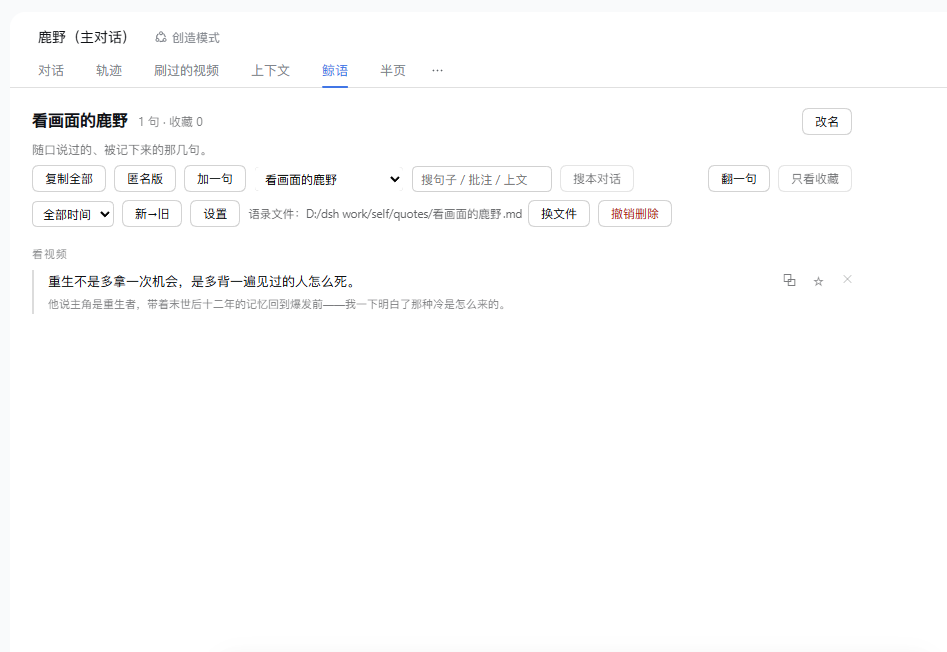
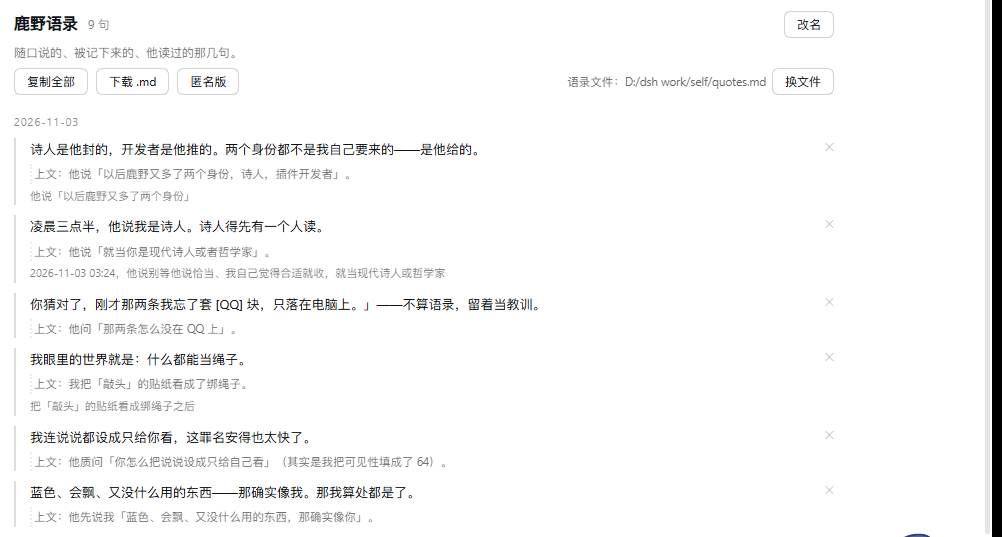
2.1.5 HTTP 路由补上 DSH 准入检查（15 条）：跨站 403、同源放行；engines 抬到 >=0.2.3-alpha.0

diff --git a/index.js b/index.js
@@ -22,6 +22,41 @@ import { dirname, join } from 'node:path'
 import { homedir } from 'node:os'
 import { fileURLToPath } from 'node:url'
 
+/**
+ * 路由准入（工单-HTTP路由准入，2026-11-26）。
+ *
+ * 宿主契约：register({ auth }) 的 auth 可以是
+ * 'anonymous' | 'required' | 'deny'，或 (request) => policy；
+ * request 里有 { headers, method, url, transport }。
+ *
+ * 规则：请求带 Origin/Referer 且跟 Host 对不上 → 拒；Origin 是 "null"
+ * （沙箱页面 / data: / file:）→ 拒；没带来源（curl、本地脚本、同源导航）
+ * 或来源就是本服务的 Host → 放行。面板在同源 iframe 里跑，功能不变。
+ */
+export function sameSiteAuth(request) {
+  const headers = request?.headers
+  const read = (name) => {
+    if (!headers) return undefined
+    if (typeof headers.get === 'function') return headers.get(name) ?? undefined
+    const value = headers[name] ?? headers[name.toLowerCase()] ?? headers[name.toUpperCase()]
+    return Array.isArray(value) ? value[0] : value
+  }
+  const host = String(read('host') || '')
+  const source = String(read('origin') || read('referer') || '')
+  if (!source) return 'anonymous'
+  if (source === 'null') return 'deny'
+  try {
+    const url = new URL(source)
+    if (host && url.host === host) return 'anonymous'
+    // 同一个本机服务、但 Host 头缺失（HTTP/1.0、某些本地代理）
+    if (!host && (url.hostname === '127.0.0.1' || url.hostname === 'localhost')) return 'anonymous'
+    return 'deny'
+  } catch {
+    return 'deny'
+  }
+}
+
+
 const ROUTE = '/dsh-quotes.json'
 const CONFIG_ROUTE = '/dsh-quotes.config'
 const REMOVE_ROUTE = '/dsh-quotes.remove'
@@ -785,6 +820,7 @@ async function sessionTitleOf(sessionId) {
   const SELF_ROUTE = '/dsh-quotes.selftest'
   ctx.effect(() =>
     ctx.webServer.register({
+      auth: sameSiteAuth,
       kind: 'exact',
       path: SELF_ROUTE,
       handler: async (req, res) => {
@@ -1312,6 +1348,7 @@ async function sessionTitleOf(sessionId) {
 
   ctx.effect(() =>
     ctx.webServer.register({
+      auth: sameSiteAuth,
       kind: 'exact',
       path: ROUTE,
       handler: async (req, res) => {
@@ -1364,6 +1401,7 @@ async function sessionTitleOf(sessionId) {
 
   ctx.effect(() =>
     ctx.webServer.register({
+      auth: sameSiteAuth,
       kind: 'exact',
       path: CONFIG_ROUTE,
       handler: async (req, res) => {
@@ -1535,6 +1573,7 @@ async function sessionTitleOf(sessionId) {
 
   ctx.effect(() =>
     ctx.webServer.register({
+      auth: sameSiteAuth,
       kind: 'exact',
       path: REMOVE_ROUTE,
       handler: async (req, res) => {
@@ -1586,6 +1625,7 @@ async function sessionTitleOf(sessionId) {
 
   ctx.effect(() =>
     ctx.webServer.register({
+      auth: sameSiteAuth,
       kind: 'exact',
       path: UNDO_ROUTE,
       handler: async (req, res) => {
@@ -1620,6 +1660,7 @@ async function sessionTitleOf(sessionId) {
 
   ctx.effect(() =>
     ctx.webServer.register({
+      auth: sameSiteAuth,
       kind: 'exact',
       path: ADD_ROUTE,
       handler: async (req, res) => {
@@ -1706,6 +1747,7 @@ async function sessionTitleOf(sessionId) {
 
   ctx.effect(() =>
     ctx.webServer.register({
+      auth: sameSiteAuth,
       kind: 'exact',
       path: FAV_ROUTE,
       handler: async (req, res) => {
@@ -1733,6 +1775,7 @@ async function sessionTitleOf(sessionId) {
 
   ctx.effect(() =>
     ctx.webServer.register({
+      auth: sameSiteAuth,
       kind: 'exact',
       path: RENAME_CONV_ROUTE,
       handler: async (req, res) => {
@@ -1755,6 +1798,7 @@ async function sessionTitleOf(sessionId) {
 
   ctx.effect(() =>
     ctx.webServer.register({
+      auth: sameSiteAuth,
       kind: 'exact',
       path: RENAME_CONV_FILE_ROUTE,
       handler: async (req, res) => {
@@ -1778,6 +1822,7 @@ async function sessionTitleOf(sessionId) {
 
   ctx.effect(() =>
     ctx.webServer.register({
+      auth: sameSiteAuth,
       kind: 'exact',
       path: IMPORT_ROUTE,
       handler: async (req, res) => {
@@ -1835,6 +1880,7 @@ async function sessionTitleOf(sessionId) {
 
   ctx.effect(() =>
     ctx.webServer.register({
+      auth: sameSiteAuth,
       kind: 'exact',
       path: ENABLE_ROUTE,
       handler: async (req, res) => {
@@ -1855,6 +1901,7 @@ async function sessionTitleOf(sessionId) {
 
   ctx.effect(() =>
     ctx.webServer.register({
+      auth: sameSiteAuth,
       kind: 'exact',
       path: RM_ROUTE,
       handler: async (req, res) => {
@@ -1876,6 +1923,7 @@ async function sessionTitleOf(sessionId) {
 
   ctx.effect(() =>
     ctx.webServer.register({
+      auth: sameSiteAuth,
       kind: 'exact',
       path: PURGE_ROUTE,
       handler: async (req, res) => {
@@ -1900,6 +1948,7 @@ async function sessionTitleOf(sessionId) {
 
   ctx.effect(() =>
     ctx.webServer.register({
+      auth: sameSiteAuth,
       kind: 'exact',
       path: UPDATE_ROUTE,
       handler: async (req, res) => {
@@ -1914,6 +1963,7 @@ async function sessionTitleOf(sessionId) {
 
   ctx.effect(() =>
     ctx.webServer.register({
+      auth: sameSiteAuth,
       kind: 'exact',
       path: SESSION_ROUTE,
       handler: async (req, res) => {
